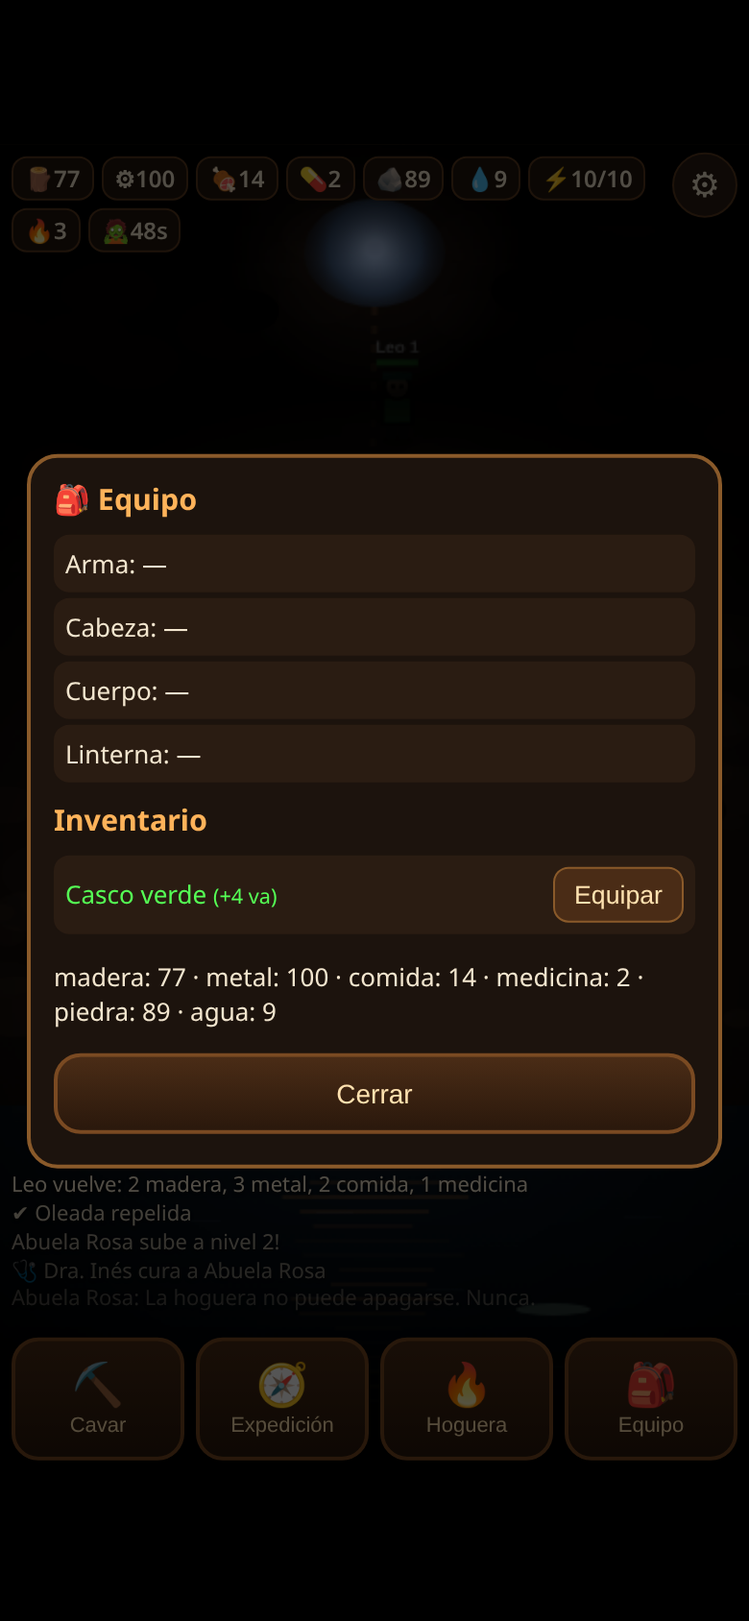
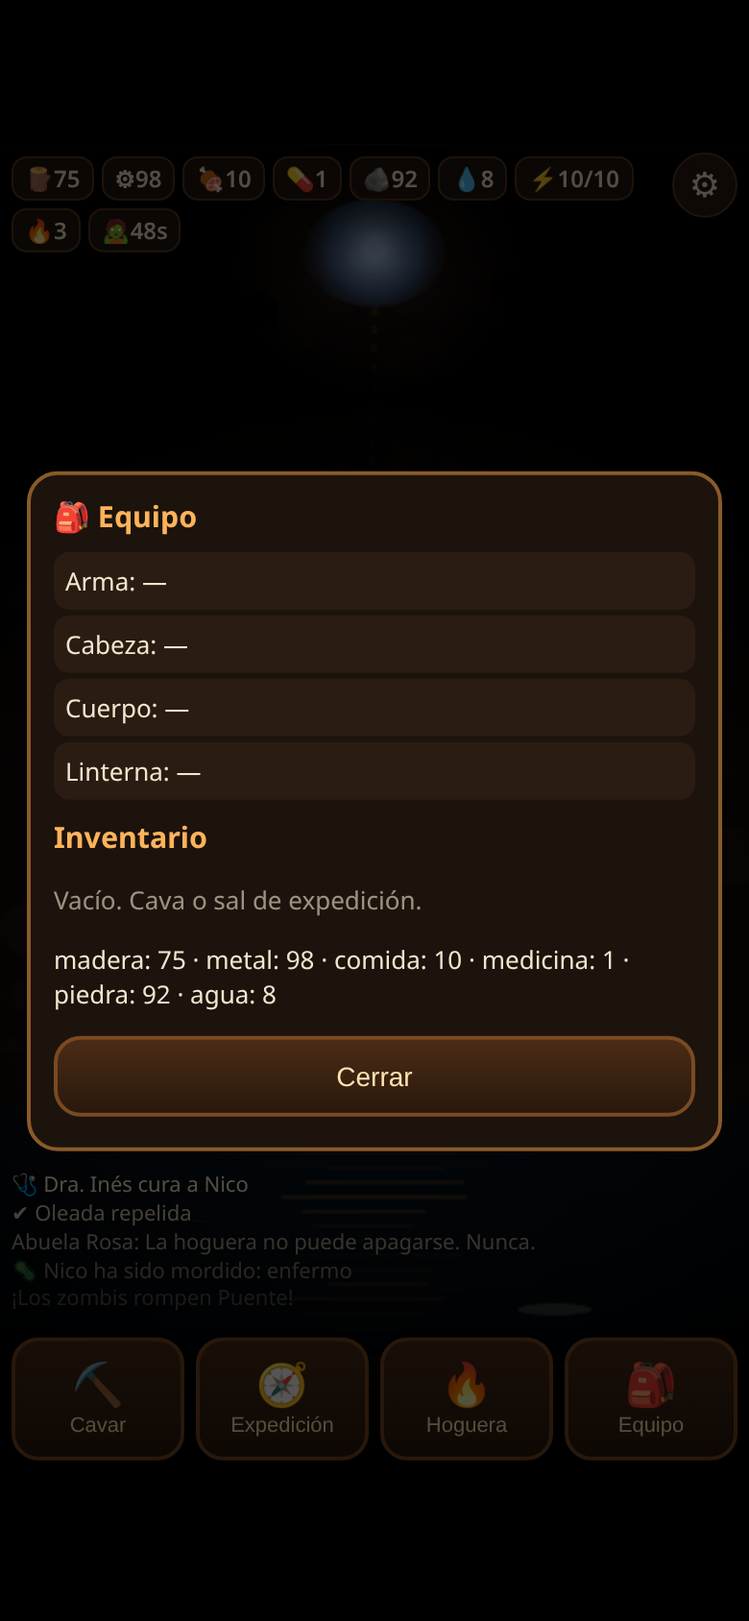
Character sheet paper doll, talents, stat points, duo expeditions, hoguera lvl 8, brighter lake, Warcraft-ish pixel art

diff --git a/game.js b/game.js
@@ -3,11 +3,17 @@
 const W=360,H=640,cv=document.getElementById('cv'),ctx=cv.getContext('2d');
 const $=id=>document.getElementById(id);
 const KEY='la_caverna_v1';
-const RAR=['Gris','Verde','Azul','Morado','Naranja'],RCOL=['#bbb','#5f5','#59f','#c6f','#fa3'];
+const RAR=['Gris','Verde','Azul','Morado','Naranja'],RCOL=['#b8b0a2','#4fd04a','#3f8cff','#b45cff','#ff9a1f'];
+const XSLOTS={manos:'Manos',pies:'Pies',mochila:'Mochila'},MAXF=8;
+const CLS={luchador:{n:'Luchador',i:'⚔',t:[[['fuerte','Golpe fuerte','+30% daño'],['piel','Piel dura','-30% daño recibido']],[['rapido','Ataque rápido','Golpeas 35% más rápido'],['grito','Grito de guerra','Aliados +2 fuerza']],[['furia','Furia','+60% daño'],['aguante','Aguante','+40 vida máx']]]},
+ explorador:{n:'Explorador',i:'🧭',t:[[['veloz','Pies ligeros','Expediciones 30% más cortas'],['ojo','Ojo avizor','+50% botín de expedición']],[['minero','Minero','Más alijos al cavar'],['incansable','Incansable','Energía +50% más rápida']],[['tesoro','Cazatesoros','Objetos de mayor rareza'],['sigilo','Sigilo','Nunca herido en expedición']]]},
+ medico:{n:'Médico',i:'⚕',t:[[['vendas','Vendas','Curas a aliados cercanos'],['botica','Botica','Medicina al cavar (25%)']],[['inmune','Inmune','Los mordiscos no te enferman'],['regen','Regeneración','Te curas 3x más rápido']],[['milagro','Milagro','50% curar sin gastar medicina'],['aura','Aura','Todos regeneran 2x']]]},
+ ingeniero:{n:'Ingeniero',i:'🔧',t:[[['ahorro','Ahorro','Hoguera 20% más barata'],['manitas','Manitas','Reparar es gratis']],[['refuerzo','Refuerzo','Las estructuras no se rompen'],['cantero','Cantero','+2 piedra al cavar']],[['trampas','Trampas','Zombis 30% más lentos'],['forja','Forja','Objetos nuevos +2 bonus']]]}};
+const NEXT=[null,null,'Taller: objetos de alijo mejores','Puente + expediciones de 2 personas','Atalaya: +10% daño en defensa','Muelle en el lago','Huerto: comida cada 30 s','Forja: objetos +1 bonus','Santuario: todos regeneran más'];
 const SLOTS={arma:'Arma',cabeza:'Cabeza',cuerpo:'Cuerpo',linterna:'Linterna'};
 const NAMES={arma:['Palo','Machete','Hacha','Lanza'],cabeza:['Gorro','Casco','Capucha'],cuerpo:['Chaqueta','Peto','Abrigo'],linterna:['Vela','Linterna','Farol']};
 const STAT={arma:'fu',cabeza:'va',cuerpo:'va',linterna:'ve'};
-const BUILD=[null,null,{n:'Taller',x:250,y:372},{n:'Puente',x:90,y:368},{n:'Atalaya',x:300,y:330},{n:'Muelle',x:180,y:458}];
+const BUILD=[null,null,{n:'Taller',x:250,y:372},{n:'Puente',x:90,y:368},{n:'Atalaya',x:300,y:330},{n:'Muelle',x:180,y:458},{n:'Huerto',x:70,y:420},{n:'Forja',x:295,y:415},{n:'Santuario',x:180,y:330}];
 const CAVES=[[60,140],[300,120],[40,250],[320,230],[120,80],[250,70],[30,330],[335,320],[200,190],[130,200]];
 const STORY=[
  ['Abuela Rosa','La hoguera no puede apagarse. Nunca.'],
@@ -21,7 +27,10 @@ function sv(name,col,role,fu,ve,va,x){return{name,col,role,lv:1,xp:0,hp:100,max:
 function fresh(){return{res:{madera:10,metal:2,comida:10,medicina:1,piedra:0,agua:5},en:10,fire:1,cave:1,
  surv:[sv('Tú','#3a8ee6','player',6,5,5,150),sv('Abuela Rosa','#c04a8a','fire',3,2,6,200),sv('Leo','#3fb34f','scout',5,8,5,120),sv('Dra. Inés','#e8e8f0','medic',3,4,5,240),sv('Nico','#f2c94c','kid',2,6,3,170)],
  inv:[],eq:{arma:null,cabeza:null,cuerpo:null,linterna:null},dog:null,wave:80,story:0,storyT:15,bld:{},log:[],tick:0}}
-function load(){try{const d=JSON.parse(localStorage.getItem(KEY));if(d&&d.surv)return d}catch(e){}return fresh()}
+function migrate(d){d.eq=Object.assign({arma:null,cabeza:null,cuerpo:null,linterna:null},d.eq||{});d.inv=d.inv||[];d.pts=d.pts||0;d.cls=d.cls||null;d.tal=d.tal||[];d.bld=d.bld||{};d.sel=[];d.tab=d.tab||'eq';for(const s of d.surv){s.mate=s.mate==null?null:s.mate}return d}
+function load(){try{const d=JSON.parse(localStorage.getItem(KEY));if(d&&d.surv)return migrate(d)}catch(e){}return migrate(fresh())}
+function T(k){return S.tal.indexOf(k)>=0}
+function tpts(){const p=P();return Math.max(0,p.lv-2)-S.tal.length}
 function save(){try{localStorage.setItem(KEY,JSON.stringify(S))}catch(e){}}
 S=load();S.surv.forEach(s=>{if(s.away)s.y=60});
 const P=()=>S.surv[0];
@@ -30,37 +39,44 @@ function renderLog(){$('log').innerHTML=S.log.map((m,i)=>'<div style="opacity:'+
 function toast(m){$('toast').textContent=m;$('toast').classList.add('on');toastT=3.5;log(m)}
 const R=(a,b)=>a+Math.random()*(b-a),RI=(a,b)=>Math.floor(R(a,b+1)),pick=a=>a[Math.floor(Math.random()*a.length)];
 function maxSurv(){return 4+S.fire}
-function lightR(){return 110+S.fire*55}
-function stat(s,k){let v=s[k]+s.lv;if(s.role==='player')for(const q in S.eq){const it=S.eq[q];if(it&&it.st===k)v+=it.b}return v}
-function addXP(s,n){s.xp+=n;while(s.xp>=s.lv*20){s.xp-=s.lv*20;s.lv++;s.max+=10;s.hp=s.max;s.fu++;s.ve++;s.va++;toast(s.name+' sube a nivel '+s.lv+'!')}}
+function lightR(){return 95+S.fire*45}
+function gearB(k){let v=0;for(const q in S.eq){const it=S.eq[q];if(it&&it.st===k)v+=it.b}return v}
+function stat(s,k){let v=s[k]+s.lv;if(s.role==='player')v+=gearB(k);else if(k==='fu'&&T('grito'))v+=2;return v}
+function dmgMul(s){return s.role==='player'?(1+(T('fuerte')?.3:0)+(T('furia')?.6:0)):1}
+function addXP(s,n){s.xp+=n;while(s.xp>=s.lv*20){s.xp-=s.lv*20;s.lv++;s.max+=10;s.hp=s.max;if(s.role==='player'){S.pts+=3;toast('¡Subes a nivel '+s.lv+'! +3 puntos de atributo'+(s.lv>=3?(S.cls?' y +1 talento':' · ¡Elige clase en Equipo!'):''))}else{const k=pick(['fu','ve','va']);s[k]+=2;s.fu++;toast(s.name+' sube a nivel '+s.lv+'!')}}}
 function mkItem(minR){const r=Math.min(4,Math.max(minR||0,(()=>{const x=Math.random();return x<.5?0:x<.78?1:x<.92?2:x<.985?3:4})()));const sl=pick(Object.keys(SLOTS));
- return{id:Date.now()+Math.random(),sl,n:pick(NAMES[sl])+' '+RAR[r].toLowerCase(),r,st:STAT[sl],b:1+r*2+RI(0,1)}}
+ return{id:Date.now()+Math.random(),sl,n:pick(NAMES[sl])+' '+RAR[r].toLowerCase(),r,st:STAT[sl],b:1+r*2+RI(0,1)+(T('forja')?2:0)+(S.bld[7]&&!S.bld[7].broken?1:0)}}
 function resStr(o){return Object.entries(o).filter(e=>e[1]>0).map(([k,v])=>v+' '+k).join(', ')}
 function has(c){return Object.entries(c).every(([k,v])=>(S.res[k]||0)>=v)}
 function pay(c){for(const k in c)S.res[k]-=c[k]}
 // ---------- actions
 function dig(){if(S.en<3){toast('Sin energía. Descansa un poco.');return}
- S.en-=3;S.cave++;const p=P();addXP(p,4);const x=Math.random();FX.push({t:'dust',x:70,y:300,l:1});
+ S.en-=3;S.cave++;const p=P();addXP(p,4);let x=Math.random();if(T('minero')&&x>.75&&x<.9)x=.4;if(T('cantero'))S.res.piedra+=2;if(T('botica')&&Math.random()<.25){S.res.medicina++;log('💊 Encuentras medicina')}FX.push({t:'dust',x:70,y:300,l:1});
  if(x<.35){const n=RI(2,5);S.res.piedra+=n;if(Math.random()<.4){S.res.metal++;log('⛏ Cueva nv '+S.cave+': '+n+' piedra y mineral (+1 metal)')}else log('⛏ Cueva nv '+S.cave+': '+n+' piedra')}
- else if(x<.55){const it=mkItem(1);S.inv.push(it);S.res.comida+=RI(1,3);toast('¡Alijo escondido! '+it.n)}
+ else if(x<.55){const it=mkItem(T('tesoro')?2:1);S.inv.push(it);S.res.comida+=RI(1,3);toast('¡Alijo escondido! '+it.n)}
  else if(x<.75){if(Math.random()<.65){S.res.agua+=RI(2,4);log('💧 Encuentras agua limpia')}else{S.res.agua+=2;if(Math.random()<.5){p.sick=true;toast('Agua mala... te pones enfermo')}else log('💧 Agua turbia. Mejor hervirla.')}}
  else if(x<.9){toast('¡Un zombi dormido en la cueva!');spawnZ(70,300,true)}
  else{S.res.madera+=RI(1,3);log('⛏ Raíces secas: madera')}
  save()}
-function expedition(i){const s=S.surv[i];if(!s||s.away||s.hp<s.max*.3)return;s.away=R(20,40);s.dur=s.away;s.tx=180;s.ty=90;s.out=false;log('🧭 '+s.name+' sale de expedición');closeM();save()}
-function returnExp(s){s.out=false;s.y=70;s.x=180;s.tx=R(110,260);s.ty=R(390,420);
- const g={madera:RI(2,6),metal:RI(0,3),comida:RI(1,5)};if(Math.random()<.4)g.medicina=1;
- for(const k in g)S.res[k]+=g[k];let m=s.name+' vuelve: '+resStr(g);addXP(s,10+S.fire*3);
- if(Math.random()<.35){const it=mkItem(Math.random()<.1?2:0);S.inv.push(it);m+=' + '+it.n}
- const risk=Math.random()*20;if(risk>stat(s,'ve')+3){s.hp=Math.max(10,s.hp-RI(15,40));m+=' (herido)'}
+function canGo(s){return s&&!s.away&&s.hp>=s.max*.3}
+function expedition(i,j){const a=S.surv[i],b=j!=null?S.surv[j]:null;if(!canGo(a)||(b&&!canGo(b)))return;let d=R(20,40)*(T('veloz')&&(a.role==='player'||(b&&b.role==='player'))?.7:1);
+ for(const s of b?[a,b]:[a]){s.away=d;s.dur=d;s.tx=180+(s===b?10:0);s.ty=90;s.out=false;s.mate=null;s.quiet=false}if(b){a.mate=j;b.quiet=true}
+ log('🧭 '+a.name+(b?' y '+b.name:'')+' salen de expedición');S.sel=[];closeM();save()}
+function returnExp(s){s.out=false;s.y=70;s.x=180;s.tx=R(110,260);s.ty=R(390,420);if(s.quiet){s.quiet=false;return}
+ const b=s.mate!=null?S.surv[s.mate]:null;s.mate=null;const team=b?[s,b]:[s];const pl=team.some(q=>q.role==='player');
+ const mul=(b?1.6:1)*(pl&&T('ojo')?1.5:1),R2=n=>Math.round(n*mul);
+ const g={madera:R2(RI(2,6)),metal:R2(RI(0,3)),comida:R2(RI(1,5))};if(Math.random()<.4*mul)g.medicina=1;
+ for(const k in g)S.res[k]+=g[k];let m=team.map(q=>q.name).join(' y ')+(b?' vuelven: ':' vuelve: ')+resStr(g);team.forEach(q=>addXP(q,10+S.fire*3));
+ if(Math.random()<(b?.55:.35)){const it=mkItem(Math.random()<(b?.25:.1)?2:0);S.inv.push(it);m+=' + '+it.n}
+ const ve=team.reduce((a,q)=>a+stat(q,'ve'),0);if(!(pl&&T('sigilo'))&&Math.random()*20>ve+3){const h=pick(team);h.hp=Math.max(10,h.hp-RI(15,40));m+=' ('+h.name+' herido)'}
  if(Math.random()<.12){s.sick=true;m+=' (enfermo)'}
  if(!S.dog&&Math.random()<.12){S.dog={hp:60,max:60,x:180,y:400,cd:0};m+=' ¡y un PERRO que te sigue!'}
  toast(m);save()}
-function upFire(){const c=fireCost();if(!has(c))return;pay(c);S.fire++;const b=BUILD[S.fire];if(b)S.bld[S.fire]={lv:1,broken:false};
+function upFire(){const c=fireCost();if(S.fire>=MAXF||!has(c))return;pay(c);S.fire++;const b=BUILD[S.fire];if(b)S.bld[S.fire]={lv:1,broken:false};
  toast('🔥 Gran Hoguera nivel '+S.fire+'!'+(b?' Nuevo: '+b.n:'')+' La luz revela más cavernas.');closeM();save()}
-function fireCost(){const l=S.fire;return{madera:8*l,piedra:4*l,metal:2*(l-1)}}
-function repair(k){const c={madera:4,piedra:2};if(!has(c))return;pay(c);S.bld[k].broken=false;log('🔧 '+BUILD[k].n+' reparado');openFire();save()}
-function heal(i){const s=S.surv[i];if(S.res.medicina<1)return;S.res.medicina--;s.sick=false;s.hp=Math.min(s.max,s.hp+30);log('💊 '+s.name+' curado');profile(i);save()}
+function fireCost(){const l=S.fire,m=T('ahorro')?.8:1;return{madera:Math.ceil(8*l*m),piedra:Math.ceil(4*l*m),metal:Math.ceil(2*(l-1)*m)}}
+function repair(k){const c=T('manitas')?{}:{madera:4,piedra:2};if(!has(c))return;pay(c);S.bld[k].broken=false;log('🔧 '+BUILD[k].n+' reparado');openFire();save()}
+function heal(i){const s=S.surv[i];if(S.res.medicina<1)return;if(!(T('milagro')&&Math.random()<.5))S.res.medicina--;s.sick=false;s.hp=Math.min(s.max,s.hp+30);log('💊 '+s.name+' curado');profile(i);save()}
 function equip(id){const k=S.inv.findIndex(x=>x.id===id);if(k<0)return;const it=S.inv[k];S.inv.splice(k,1);if(S.eq[it.sl])S.inv.push(S.eq[it.sl]);S.eq[it.sl]=it;openEquip();save()}
 function unequip(sl){if(!S.eq[sl])return;S.inv.push(S.eq[sl]);S.eq[sl]=null;openEquip();save()}
 // ---------- zombies
@@ -71,20 +87,40 @@ function wave(){const n=2+S.fire+Math.floor(S.cave/8);const cs=revealed().length
 // ---------- UI modals
 const M=$('modal'),C=$('card');function openM(h){C.innerHTML=h;M.classList.remove('hide')}function closeM(){M.classList.add('hide')}
 M.addEventListener('click',e=>{if(e.target===M)closeM();const b=e.target.closest('[data-f]');if(!b||b.disabled)return;const f=b.dataset.f,v=b.dataset.v;
- ({close:closeM,exp:()=>expedition(+v),fire:upFire,rep:()=>repair(v),heal:()=>heal(+v),eq:()=>equip(+v),uneq:()=>unequip(v),reset:()=>{if(confirm('¿Borrar partida?')){localStorage.removeItem(KEY);location.reload()}},profile:()=>profile(+v)})[f]()});
+ ({close:closeM,exp:()=>expedition(+v),fire:upFire,rep:()=>repair(v),heal:()=>heal(+v),eq:()=>equip(+v),uneq:()=>unequip(v),sel:()=>selExp(+v),go:()=>{const a=S.sel;if(a.length)expedition(a[0],a[1])},slot:()=>detail('s',v),inv:()=>detail('i',+v),stp:()=>{if(S.pts>0){P()[v]++;S.pts--;save();openEquip()}},tab:()=>{S.tab=v;openEquip()},cls:()=>{if(P().lv>=3&&!S.cls){S.cls=v;save();openEquip()}},tal:()=>learn(v),reset:()=>{if(confirm('¿Borrar partida?')){localStorage.removeItem(KEY);location.reload()}},profile:()=>profile(+v)})[f]()});
 const X='<button class="btn" data-f="close">Cerrar</button>';
-function openExp(){let h='<h3>🧭 Expedición</h3><p>Elige quién sale (20-40 s). Riesgo de heridas.</p>';
- S.surv.forEach((s,i)=>{const ok=!s.away&&s.hp>=s.max*.3;h+='<button class="btn" data-f="exp" data-v="'+i+'" '+(ok?'':'disabled')+'>'+s.name+' · nv '+s.lv+' · ♥'+Math.round(s.hp)+(s.away?' (fuera '+Math.ceil(s.away)+'s)':'')+'</button>'});openM(h+X)}
-function openFire(){const c=fireCost();let h='<h3>🔥 Gran Hoguera · nivel '+S.fire+'</h3><p>Mejorar revela más pared, construye estructuras y sube supervivientes máx ('+maxSurv()+').</p><p>Coste: '+resStr(c)+'</p><button class="btn" data-f="fire" '+(has(c)?'':'disabled')+'>Mejorar a nivel '+(S.fire+1)+'</button>';
- for(const k in S.bld){if(S.bld[k].broken)h+='<button class="btn" data-f="rep" data-v="'+k+'" '+(has({madera:4,piedra:2})?'':'disabled')+'>Reparar '+BUILD[k].n+' (4 madera, 2 piedra)</button>'}
+function openExp(){const duo=S.fire>=3;let h='<h3>🧭 Expedición</h3><p>'+(duo?'Elige 1 o 2 supervivientes. En pareja: +60% botín, menos riesgo y ambos ganan XP (pero hay menos defensores).':'Elige quién sale (20-40 s). Riesgo de heridas.')+'</p>'+(duo?'':'<p class="lock">🔒 Expediciones de 2 personas: Hoguera nivel 3</p>');
+ S.surv.forEach((s,i)=>{const ok=canGo(s),on=S.sel.indexOf(i)>=0;h+='<button class="btn'+(on?' on':'')+'" data-f="'+(duo?'sel':'exp')+'" data-v="'+i+'" '+(ok?'':'disabled')+'>'+(on?'✔ ':'')+s.name+' · nv '+s.lv+' · ♥'+Math.round(s.hp)+' · Vel '+stat(s,'ve')+(s.away?' (fuera '+Math.ceil(s.away)+'s)':'')+'</button>'});
+ if(duo)h+='<button class="btn gold" data-f="go" '+(S.sel.length?'':'disabled')+'>Enviar '+(S.sel.length===2?'pareja':'')+'</button>';openM(h+X)}
+function selExp(i){const k=S.sel.indexOf(i);if(k>=0)S.sel.splice(k,1);else{S.sel.push(i);if(S.sel.length>2)S.sel.shift()}openExp()}
+function openFire(){const c=fireCost(),mx=S.fire>=MAXF;let h='<h3>🔥 Gran Hoguera · nivel '+S.fire+'/'+MAXF+'</h3><div class="lvbar">'+Array.from({length:MAXF},(_,i)=>'<i class="'+(i<S.fire?'on':'')+'">'+(i+1)+'</i>').join('')+'</div><p>Luz: '+lightR()+' · Grutas reveladas: '+revealed().length+'/'+CAVES.length+' · Supervivientes máx '+maxSurv()+'</p>';
+ if(mx)h+='<p class="gold">¡Hoguera al máximo!</p>';else h+='<div class="next"><b>Siguiente nivel '+(S.fire+1)+' desbloquea:</b><br>• '+(NEXT[S.fire+1]||'Más luz')+'<br>• Más pared revelada (luz '+(lightR()+55)+')<br>• Coste: '+resStr(c)+'</div><button class="btn gold" data-f="fire" '+(has(c)?'':'disabled')+'>Mejorar a nivel '+(S.fire+1)+'</button>';
+ h+='<p style="opacity:.75">'+NEXT.map((n,i)=>n&&i<=S.fire?'✔ '+n:'').filter(Boolean).join('<br>')+'</p>';
+ for(const k in S.bld){if(S.bld[k].broken)h+='<button class="btn" data-f="rep" data-v="'+k+'" '+(T('manitas')||has({madera:4,piedra:2})?'':'disabled')+'>Reparar '+BUILD[k].n+(T('manitas')?' (gratis)':' (4 madera, 2 piedra)')+'</button>'}
  h+='<p style="opacity:.7">Próxima oleada en '+Math.ceil(S.wave)+' s</p>';openM(h+X)}
-function gearHTML(){return Object.keys(SLOTS).map(sl=>{const it=S.eq[sl];return'<div class="it"><span>'+SLOTS[sl]+': '+(it?'<b class="r'+it.r+'">'+it.n+'</b> +'+it.b+' '+it.st:'—')+'</span>'+(it?'<button data-f="uneq" data-v="'+sl+'">Quitar</button>':'')+'</div>'}).join('')}
-function openEquip(){let h='<h3>🎒 Equipo</h3>'+gearHTML()+'<h3 style="margin-top:10px">Inventario</h3>';
- if(!S.inv.length)h+='<p style="opacity:.6">Vacío. Cava o sal de expedición.</p>';
- S.inv.forEach(it=>{h+='<div class="it"><span class="r'+it.r+'">'+it.n+' <small>(+'+it.b+' '+it.st+')</small></span><button data-f="eq" data-v="'+it.id+'">Equipar</button></div>'});
- h+='<p>'+Object.entries(S.res).map(([k,v])=>k+': '+v).join(' · ')+'</p>';openM(h+X)}
+const SL_L=['cabeza','cuerpo','manos'],SL_R=['arma','linterna','pies','mochila'];
+function slotHTML(sl){const it=S.eq[sl],ex=!SLOTS[sl];return'<div class="slot'+(it?' rb'+it.r:'')+(ex?' empty':'')+'" data-f="slot" data-v="'+sl+'"><canvas class="ic" width="20" height="20" data-ic="'+(it?'e:'+sl:'')+'"></canvas><small>'+(SLOTS[sl]||XSLOTS[sl])+'</small></div>'}
+const SN={fu:'Fuerza',ve:'Velocidad',va:'Valor'};
+function sheetHead(){const p=P(),c=S.cls&&CLS[S.cls];return'<div class="nm"><b>'+p.name+'</b> · Nivel '+p.lv+' · '+(c?c.i+' '+c.n:'Superviviente')+'</div><div class="xb"><i style="width:'+Math.min(100,p.xp/(p.lv*20)*100)+'%"></i><span>XP '+p.xp+'/'+p.lv*20+'</span></div><div class="xb hp"><i style="width:'+p.hp/p.max*100+'%"></i><span>♥ '+Math.round(p.hp)+'/'+p.max+'</span></div>'}
+function gearHTML(){const p=P();let h='<div class="doll"><div class="col">'+SL_L.map(slotHTML).join('')+'</div><div class="mid"><canvas id="doll" width="72" height="56"></canvas></div><div class="col">'+SL_R.map(slotHTML).join('')+'</div></div>';
+ h+='<div class="stats">'+(S.pts?'<div class="pts">✨ '+S.pts+' puntos para repartir</div>':'')+Object.keys(SN).map(k=>{const g=gearB(k);return'<div class="st"><span>'+SN[k]+'</span><b>'+stat(p,k)+'</b>'+(g?'<em>(+'+g+')</em>':'<em></em>')+(S.pts?'<button data-f="stp" data-v="'+k+'">+</button>':'')+'</div>'}).join('')+(S.dog?'<div class="st"><span>🐕 Perro</span><b>♥'+Math.round(S.dog.hp)+'</b><em></em></div>':'')+'</div><div id="det" class="det">Toca una casilla u objeto.</div>';return h}
+function talentHTML(){const p=P();if(p.lv<3)return'<p class="lock">🔒 Al nivel 3 eliges clase y desbloqueas talentos (1 punto por nivel).<br>Te faltan '+(3-p.lv)+' nivel(es).</p>';
+ if(!S.cls)return'<p>Elige tu clase (definitiva):</p>'+Object.keys(CLS).map(k=>{const c=CLS[k];return'<button class="btn" data-f="cls" data-v="'+k+'">'+c.i+' '+c.n+'<small>'+c.t[0].map(x=>x[1]).join(' · ')+'</small></button>'}).join('');
+ const c=CLS[S.cls];let h='<p class="pts">'+c.i+' '+c.n+' · Puntos de talento: '+tpts()+'</p><div class="tree">';
+ c.t.forEach((tier,ti)=>{const open=ti===0||c.t[ti-1].some(x=>T(x[0]));h+='<div class="tier">'+tier.map(x=>{const on=T(x[0]),can=!on&&open&&tpts()>0;return'<div class="node'+(on?' on':can?' can':'')+'" data-f="tal" data-v="'+x[0]+'"><b>'+x[1]+'</b><small>'+x[2]+'</small></div>'}).join('')+'</div>'+(ti<2?'<div class="link'+(tier.some(x=>T(x[0]))?' on':'')+'"></div>':'')});return h+'</div>'}
+function learn(k){const c=CLS[S.cls];if(!c||tpts()<1||T(k))return;const ti=c.t.findIndex(t=>t.some(x=>x[0]===k));if(ti>0&&!c.t[ti-1].some(x=>T(x[0])))return;S.tal.push(k);if(k==='aguante')P().max+=40;toast('Talento aprendido: '+c.t[ti].find(x=>x[0]===k)[1]);save();openEquip()}
+function itemInfo(it){return'<b class="r'+it.r+'">'+it.n+'</b><br>'+RAR[it.r]+' · '+(SLOTS[it.sl])+' · +'+it.b+' '+SN[it.st]}
+function detail(t,v){const d=$('det');if(!d)return;if(t==='s'){const it=S.eq[v];d.innerHTML=it?itemInfo(it)+' <button data-f="uneq" data-v="'+v+'">Quitar</button>':(SLOTS[v]||XSLOTS[v])+': '+(SLOTS[v]?'vacío':'próximamente')}
+ else{const it=S.inv.find(x=>x.id===v);if(!it)return;const cur=S.eq[it.sl];d.innerHTML=itemInfo(it)+(cur?'<br><small>Equipado: +'+cur.b+' ('+(it.b-cur.b>=0?'+':'')+(it.b-cur.b)+')</small>':'')+' <button data-f="eq" data-v="'+it.id+'">Equipar</button>'}}
+function openEquip(){const p=P(),tab=S.tab==='tal'?'tal':'eq',tb=tpts()>0&&S.cls||(p.lv>=3&&!S.cls);
+ let h='<div class="sheet">'+sheetHead()+'<div class="tabs"><button data-f="tab" data-v="eq" class="'+(tab==='eq'?'on':'')+'">Equipo</button><button data-f="tab" data-v="tal" class="'+(tab==='tal'?'on':'')+'">Talentos'+(tb?' ●':'')+'</button></div>';
+ if(tab==='eq'){h+=gearHTML()+'<h3>Inventario</h3><div class="grid">';
+  if(!S.inv.length)h+='<p style="opacity:.6">Vacío. Cava o sal de expedición.</p>';
+  S.inv.forEach(it=>{h+='<div class="slot rb'+it.r+'" data-f="inv" data-v="'+it.id+'"><canvas class="ic" width="20" height="20" data-ic="i:'+it.id+'"></canvas></div>'});
+  h+='</div><p class="res">'+Object.entries(S.res).map(([k,v])=>k+': '+v).join(' · ')+'</p>'}else h+=talentHTML();
+ openM(h+X+'</div>');C.querySelectorAll('canvas.ic').forEach(cv=>{const a=cv.dataset.ic;if(!a)return;const it=a[0]==='e'?S.eq[a.slice(2)]:S.inv.find(x=>x.id===+a.slice(2));drawIcon(cv,it)});drawDoll()}
 function profile(i){const s=S.surv[i];let h='<h3 style="color:'+s.col+'">'+s.name+'</h3>Nivel '+s.lv+' · XP '+s.xp+'/'+s.lv*20+'<br>♥ '+Math.round(s.hp)+'/'+s.max+' · Hambre '+Math.round(s.hunger)+'%<br>Fuerza '+stat(s,'fu')+' · Velocidad '+stat(s,'ve')+' · Valor '+stat(s,'va')+'<br>Estado: '+(s.sick?'<b style="color:#8f8">ENFERMO</b>':'sano')+(s.away?' · de expedición':'');
- if(s.role==='player')h+='<h3 style="margin-top:8px">Equipo</h3>'+gearHTML()+(S.dog?'<p>🐕 Perro: ♥'+Math.round(S.dog.hp)+'</p>':'');
+ if(s.role==='player'&&!s.sick&&s.hp>=s.max){openEquip();return}
  if(s.sick||s.hp<s.max)h+='<button class="btn" data-f="heal" data-v="'+i+'" '+(S.res.medicina>0?'':'disabled')+'>Usar medicina ('+S.res.medicina+')</button>';openM(h+X)}
 function settings(){openM('<h3>⚙ Ajustes</h3><p>La Caverna · prototipo v0.1<br>La partida se guarda sola en este dispositivo.</p><button class="btn" data-f="reset">Reiniciar partida</button>'+X)}
 $('gear').onclick=settings;
@@ -94,24 +130,25 @@ cv.addEventListener('click',e=>{const r=cv.getBoundingClientRect(),x=(e.clientX-
 // ---------- update
 function near(a,list){let b=null,bd=1e9;for(const o of list){const d=Math.hypot(o.x-a.x,o.y-a.y);if(d<bd){bd=d;b=o}}return[b,bd]}
 function update(dt){const t=S.tick+=dt;
- S.en=Math.min(10,S.en+dt/3);S.wave-=dt;if(S.wave<=0){wave();S.wave=Math.max(45,85-S.fire*6)}
+ S.en=Math.min(10,S.en+dt/3*(T('incansable')?1.5:1));if(S.bld[6]&&!S.bld[6].broken&&t%30<dt){S.res.comida++}S.wave-=dt;if(S.wave<=0){wave();S.wave=Math.max(45,85-S.fire*6)}
  S.storyT-=dt;if(S.storyT<=0&&S.story<STORY.length){const[a,b]=STORY[S.story++];toast(a+': '+b);if(S.story===STORY.length)FX.push({t:'splash',x:200,y:540,l:2});S.storyT=40}
  const home=S.surv.filter(s=>!s.out&&s.hp>0);
  for(const s of S.surv){
   if(s.away>0){s.away-=dt;if(!s.out){mv(s,s.tx,s.ty,40,dt);if(Math.hypot(s.x-s.tx,s.y-s.ty)<3){s.ty=60;s.tx=180;if(s.y<64)s.out=true}}if(s.away<=0){s.away=0;returnExp(s)}continue}
   s.hunger+=dt*.5;if(s.hunger>=100){if(S.res.comida>0){S.res.comida--;s.hunger=0}else{s.hunger=100;s.hp-=dt*.5}}
-  if(s.sick)s.hp-=dt*.4;if(!s.sick&&s.hunger<100)s.hp=Math.min(s.max,s.hp+dt*.3);
+  if(s.sick)s.hp-=dt*.4;if(!s.sick&&s.hunger<100)s.hp=Math.min(s.max+(s.role==='player'&&T('aguante')?40:0),s.hp+dt*.3*(s.role==='player'&&T('regen')?3:1)*(T('aura')?2:1)*(S.bld[8]?1.5:1));
+  if(s.role==='player'&&T('vendas')&&t%5<dt)for(const o of S.surv)if(o!==s&&!o.away&&Math.hypot(o.x-s.x,o.y-s.y)<60)o.hp=Math.min(o.max,o.hp+4);
   if(s.hp<=0){s.hp=1;s.sick=false;s.hunger=50;log('💀 '+s.name+' cae inconsciente y se recupera junto al fuego');s.x=180;s.y=410}
   const[z,d]=near(s,Z);s.cd-=dt;s.hit=Math.max(0,s.hit-dt);
-  if(z&&d<160){if(d>14)mv(s,z.x,z.y,30+stat(s,'ve')*2,dt);else if(s.cd<=0){z.hp-=4+stat(s,'fu')*1.5;z.hit=.15;s.cd=1;FX.push({t:'hit',x:z.x,y:z.y-8,l:.3});if(z.hp<=0)addXP(s,6)}}
+  if(z&&d<160){if(d>14)mv(s,z.x,z.y,30+stat(s,'ve')*2,dt);else if(s.cd<=0){z.hp-=(4+stat(s,'fu')*1.5)*dmgMul(s)*(S.bld[4]&&!S.bld[4].broken?1.1:1);z.hit=.15;s.cd=s.role==='player'&&T('rapido')?.65:1;FX.push({t:'hit',x:z.x,y:z.y-8,l:.3});if(z.hp<=0)addXP(s,6)}}
   else{if(Math.hypot(s.x-s.tx,s.y-s.ty)<2&&Math.random()<dt*.4){s.tx=R(95,265);s.ty=R(388,425)}mv(s,s.tx,s.ty,14,dt)}
  }
  if(S.dog){const d=S.dog,p=P();d.cd-=dt;const[z,dz]=near(d,Z);if(z&&dz<150){if(dz>12)mv(d,z.x,z.y,60,dt);else if(d.cd<=0){z.hp-=8;z.hit=.15;d.cd=.8}}else mv(d,p.x+14,p.y+4,p.out?0:40,dt);d.hp=Math.min(d.max,d.hp+dt)}
  for(const z of Z){z.cd-=dt;z.hit=Math.max(0,z.hit-dt);
   const tgts=home.slice();if(S.dog)tgts.push(S.dog);for(const k in S.bld)if(!S.bld[k].broken)tgts.push({x:BUILD[k].x,y:BUILD[k].y,bk:k});
-  const[tg,d]=near(z,tgts);if(!tg)continue;if(d>12)mv(z,tg.x,tg.y,z.sp,dt);else if(z.cd<=0){z.cd=1.3;
-   if(tg.bk){if(Math.random()<.25){S.bld[tg.bk].broken=true;toast('¡Los zombis rompen '+BUILD[tg.bk].n+'!')}}
-   else{tg.hp-=z.atk;tg.hit=.2;if(tg.name&&Math.random()<.12&&!tg.sick){tg.sick=true;log('🦠 '+tg.name+' ha sido mordido: enfermo')}}}}
+  const[tg,d]=near(z,tgts);if(!tg)continue;if(d>12)mv(z,tg.x,tg.y,z.sp*(T('trampas')?.7:1),dt);else if(z.cd<=0){z.cd=1.3;
+   if(tg.bk){if(!T('refuerzo')&&Math.random()<.25){S.bld[tg.bk].broken=true;toast('¡Los zombis rompen '+BUILD[tg.bk].n+'!')}}
+   else{tg.hp-=z.atk*(tg.role==='player'&&T('piel')?.7:1);tg.hit=.2;if(tg.name&&Math.random()<.12&&!tg.sick&&!(tg.role==='player'&&T('inmune'))){tg.sick=true;log('🦠 '+tg.name+' ha sido mordido: enfermo')}}}}
  const dead=Z.filter(z=>z.hp<=0);if(dead.length){Z=Z.filter(z=>z.hp>0);S.res.comida+=0;if(!Z.length)log('✔ Oleada repelida')}
  // medic & fire keeper
  const med=S.surv[3];if(med&&!med.away&&t%20<dt){const sk=S.surv.find(s=>s.sick&&!s.away&&s!==med);if(sk){sk.sick=false;log('🩺 Dra. Inés cura a '+sk.name)}}
@@ -134,37 +171,81 @@ function bg(){const g=ctx.createLinearGradient(0,0,0,H);g.addColorStop(0,'#2a1d1
  // ledge
  ctx.fillStyle='#4a3424';ctx.beginPath();ctx.moveTo(60,380);ctx.quadraticCurveTo(180,360,300,380);ctx.lineTo(320,440);ctx.quadraticCurveTo(180,460,40,440);ctx.closePath();ctx.fill();
  ctx.fillStyle='#5e4430';ctx.fillRect(60,376,240,6)}
-function lake(t){const g=ctx.createLinearGradient(0,465,0,H);g.addColorStop(0,'#0b1620');g.addColorStop(1,'#020509');ctx.fillStyle=g;ctx.fillRect(0,462,W,H-462);
- for(let i=0;i<26;i++){const y=470+i*7,a=.25*(1-i/26)*(.6+.4*Math.sin(t*3+i));ctx.fillStyle='rgba(255,150,60,'+a+')';const w=40-i+Math.sin(t*2+i*1.7)*10;ctx.fillRect(180-w+Math.sin(t*1.5+i)*6,y,w*2,2)}
- for(let i=0;i<12;i++){ctx.fillStyle='rgba(120,160,200,.08)';ctx.fillRect((i*53+t*12)%W,480+(i*37)%150,18,1)}}
-function fire(t){const l=S.fire,s=1+l*.15;const g=ctx.createRadialGradient(180,395,4,180,395,90*s);g.addColorStop(0,'rgba(255,170,60,.55)');g.addColorStop(1,'rgba(255,100,20,0)');ctx.fillStyle=g;ctx.fillRect(0,250,W,250);
- ctx.fillStyle='#3a2a1e';for(let i=0;i<7;i++){ctx.beginPath();ctx.arc(180+Math.cos(i)*16*s,404+Math.sin(i)*3,4,0,7);ctx.fill()}
- for(let i=0;i<9;i++){const fl=Math.sin(t*9+i*2)*.5+.5;ctx.fillStyle=['#ff4a14','#ff8a1e','#ffd04a'][i%3];ctx.beginPath();const x=180+(i-4)*3.5*s,h=(16+fl*14)*s*(1-Math.abs(i-4)/6);ctx.moveTo(x-6*s,404);ctx.quadraticCurveTo(x,404-h*1.6,x+6*s,404);ctx.fill()}}
+function lake(t){const l=S.fire,g=ctx.createLinearGradient(0,462,0,H);g.addColorStop(0,'#1f6f86');g.addColorStop(.35,'#145368');g.addColorStop(1,'#08303f');ctx.fillStyle=g;ctx.fillRect(0,462,W,H-462);
+ ctx.fillStyle='#3a6a70';ctx.fillRect(0,460,W,3);
+ for(let i=0;i<34;i++){const y=470+(i*29)%170,x=(i*71+t*(8+i%5*3))%(W+40)-20,a=.18+.12*Math.sin(t*2+i);ctx.fillStyle='rgba(170,230,240,'+a+')';ctx.fillRect(Math.round(x),y,10+i%4*6,1)}
+ const rows=10+l*6,wb=26+l*9,al=.35+l*.06;
+ for(let i=0;i<rows;i++){const y=468+i*(170/rows)*Math.min(1,rows/34)*1.4,k=1-i/rows,a=al*k*(.6+.4*Math.sin(t*3+i));if(y>H)break;ctx.fillStyle='rgba(255,'+(150+Math.round(60*k))+',70,'+Math.min(.9,a)+')';const w=wb*(.5+k*.5)+Math.sin(t*2+i*1.7)*8;ctx.fillRect(Math.round(180-w+Math.sin(t*1.5+i)*5),Math.round(y),Math.round(w*2),2)}
+ const rg=ctx.createRadialGradient(180,470,4,180,470,60+l*28);rg.addColorStop(0,'rgba(255,170,80,'+(.22+l*.03)+')');rg.addColorStop(1,'rgba(255,140,60,0)');ctx.fillStyle=rg;ctx.fillRect(0,462,W,H-462)}
+function fire(t){const l=S.fire,s=.75+l*.3;const g=ctx.createRadialGradient(180,395,4,180,395,60+l*32);g.addColorStop(0,'rgba(255,170,60,'+Math.min(.85,.45+l*.05)+')');g.addColorStop(1,'rgba(255,100,20,0)');ctx.fillStyle=g;ctx.fillRect(0,200,W,280);
+ ctx.fillStyle='#3a2a1e';const ring=5+l;for(let i=0;i<ring;i++){const a=i/ring*Math.PI*2;ctx.beginPath();ctx.arc(180+Math.cos(a)*(9+5*s),404+Math.sin(a)*3,3+s,0,7);ctx.fill()}
+ const fn=7+l*2;for(let i=0;i<fn;i++){const c=(fn-1)/2,fl=Math.sin(t*9+i*2)*.5+.5;ctx.fillStyle=['#ff4a14','#ff8a1e','#ffd04a'][i%3];ctx.beginPath();const x=180+(i-c)*3*s,h=(14+fl*12)*s*(1-Math.abs(i-c)/(c+2));ctx.moveTo(x-5*s,404);ctx.quadraticCurveTo(x,404-h*1.6,x+5*s,404);ctx.fill()}
+ const sp=3+l*5;for(let i=0;i<sp;i++){const p=((t*.6+i*.137)%1),x=180+Math.sin(i*12.9+t*2)*(6+p*14)*s,y=400-p*(30+l*12)*s;ctx.fillStyle='rgba(255,'+(200-Math.round(p*120))+',60,'+(1-p)+')';ctx.fillRect(Math.round(x),Math.round(y),2,2)}}
 function buildings(){for(const k in S.bld){const b=BUILD[k],br=S.bld[k].broken;ctx.save();ctx.translate(b.x,b.y);ctx.globalAlpha=br?.5:1;ctx.fillStyle='#7a5232';ctx.strokeStyle='#2a1a0e';ctx.lineWidth=2;
  if(b.n==='Taller'){ctx.fillRect(-14,-16,28,16);ctx.beginPath();ctx.moveTo(-17,-16);ctx.lineTo(0,-28);ctx.lineTo(17,-16);ctx.fillStyle='#a33';ctx.fill()}
  else if(b.n==='Puente'){ctx.beginPath();ctx.moveTo(-40,0);ctx.quadraticCurveTo(-20,10,0,0);ctx.stroke();for(let i=-38;i<0;i+=6)ctx.fillRect(i,1,4,3)}
  else if(b.n==='Atalaya'){ctx.fillRect(-3,-40,6,40);ctx.fillRect(-12,-48,24,10)}
+ else if(b.n==='Huerto'){ctx.fillStyle='#4a3020';ctx.fillRect(-18,-6,36,8);ctx.fillStyle='#5fbf3a';for(let i=-15;i<16;i+=6)ctx.fillRect(i,-11,3,6)}
+ else if(b.n==='Forja'){ctx.fillStyle='#5a5a60';ctx.fillRect(-12,-14,24,14);ctx.fillStyle='#ff8a2a';ctx.fillRect(-5,-9,10,6);ctx.fillStyle='#333';ctx.fillRect(6,-26,5,12)}
+ else if(b.n==='Santuario'){ctx.fillStyle='#8a8070';ctx.fillRect(-16,-6,32,6);ctx.fillRect(-13,-26,4,20);ctx.fillRect(9,-26,4,20);ctx.fillRect(-16,-30,32,5);ctx.fillStyle='#ffd86a';ctx.fillRect(-2,-20,4,4)}
  else {ctx.fillRect(-22,0,44,5);ctx.fillRect(-20,5,3,10);ctx.fillRect(17,5,3,10)}
  ctx.globalAlpha=1;ctx.fillStyle=br?'#f55':'#ffd9a0';ctx.font='8px sans-serif';ctx.textAlign='center';ctx.fillText(b.n+(br?' (roto)':''),0,br?-30:12);ctx.restore()}}
-function person(s,t){if(s.out)return;const bob=Math.sin(t*6+s.x)*1.2,x=s.x,y=s.y+bob;ctx.fillStyle='rgba(0,0,0,.4)';ctx.beginPath();ctx.ellipse(s.x,s.y+2,7,2.5,0,0,7);ctx.fill();
- const kid=s.role==='kid'?.75:1;ctx.save();ctx.translate(x,y);ctx.scale(kid,kid);
- ctx.fillStyle=s.hit>0?'#fff':'#222';ctx.fillRect(-5,-8,4,8);ctx.fillRect(1,-8,4,8);
- ctx.fillStyle=s.hit>0?'#fff':s.col;ctx.fillRect(-7,-20,14,13);ctx.strokeStyle='#000';ctx.lineWidth=1.5;ctx.strokeRect(-7,-20,14,13);
- ctx.fillStyle=s.sick?'#9c9':'#f0c090';ctx.beginPath();ctx.arc(0,-25,6,0,7);ctx.fill();ctx.stroke();
- ctx.fillStyle='#000';ctx.fillRect(-3,-26,2,2);ctx.fillRect(1,-26,2,2);
- if(s.role==='fire'){ctx.fillStyle='#ddd';ctx.fillRect(-6,-32,12,4)}if(s.role==='medic'){ctx.fillStyle='#e22';ctx.fillRect(-1.5,-18,3,9);ctx.fillRect(-4.5,-15,9,3)}
- if(s.role==='player'){if(S.eq.arma){ctx.fillStyle=RCOL[S.eq.arma.r];ctx.fillRect(7,-22,3,14)}if(S.eq.cabeza){ctx.fillStyle=RCOL[S.eq.cabeza.r];ctx.fillRect(-7,-33,14,5)}if(S.eq.linterna){ctx.fillStyle='#ffe28a';ctx.beginPath();ctx.arc(-9,-12,2.5,0,7);ctx.fill()}}
- if(s.role==='scout'){ctx.fillStyle='#265';ctx.fillRect(-7,-32,14,4)}
- ctx.restore();bar(x,y-38,s.hp/s.max,s.sick?'#8c4':'#4c4');ctx.fillStyle='#fff';ctx.font='bold 8px sans-serif';ctx.textAlign='center';ctx.fillText(s.name.split(' ').pop()+' '+s.lv,x,y-41)}
+function person(s,t){if(s.out)return;const bob=Math.round(Math.sin(t*6+s.x)*1.2),x=Math.round(s.x),y=Math.round(s.y)+bob;ctx.fillStyle='rgba(0,0,0,.4)';ctx.beginPath();ctx.ellipse(s.x,s.y+2,8,2.5,0,0,7);ctx.fill();
+ const kid=s.role==='kid'?.75:1;ctx.save();ctx.translate(x,y);ctx.scale(kid,kid);hero(ctx,s,s.role==='player'?S.eq:null,t);ctx.restore();
+ bar(x,y-42,s.hp/s.max,s.sick?'#8c4':'#4c4');ctx.fillStyle='#fff';ctx.font='bold 8px sans-serif';ctx.textAlign='center';ctx.fillText(s.name.split(' ').pop()+' '+s.lv,x,y-45)}
+// ---------- pixel art (Warcraft-ish: chunky, bold outlines, warm palette)
+const OL='#1a0e06';
+function kind(it){return it?it.n.split(' ')[0]:''}
+function shade(h,f){const n=parseInt(h.slice(1),16);let r=n>>16,g=n>>8&255,b=n&255;const c=v=>Math.max(0,Math.min(255,Math.round(f>1?v+(255-v)*(f-1):v*f)));return'#'+((1<<24)+(c(r)<<16)+(c(g)<<8)+c(b)).toString(16).slice(1)}
+function metal(r){return r?RCOL[r]:'#c9c4bb'}
+function paint(c,L,flash){for(const q of L){c.fillStyle=OL;c.fillRect(q[0]-1,q[1]-1,q[2]+2,q[3]+2)}for(const q of L){c.fillStyle=flash?'#fff':q[4];c.fillRect(q[0],q[1],q[2],q[3])}}
+function weaponRects(it,x,y){const k=kind(it),m=metal(it.r),w='#8a5a2c';
+ if(k==='Palo')return[[x,y-16,2,18,w],[x,y-17,2,2,m]];
+ if(k==='Machete')return[[x,y-2,2,4,'#5a3416'],[x-1,y-3,4,1,'#d8a040'],[x,y-15,3,12,m],[x+1,y-14,1,10,shade(m,1.4)]];
+ if(k==='Hacha')return[[x,y-16,2,19,w],[x+2,y-16,4,7,m],[x+5,y-17,1,9,shade(m,1.3)]];
+ return[[x,y-24,2,27,w],[x-1,y-28,4,4,m],[x,y-30,2,2,shade(m,1.3)],[x-1,y-21,4,1,'#c33']]}
+function helmRects(it,top){const k=kind(it),m=metal(it.r);
+ if(k==='Gorro')return[[-7,top,14,4,m],[-4,top-3,8,3,m],[-1,top-5,2,2,'#f3e6cf'],[-7,top+3,14,1,shade(m,.7)]];
+ if(k==='Casco')return[[-7,top-1,14,5,m],[-7,top+4,2,4,m],[5,top+4,2,4,m],[-1,top+4,2,4,shade(m,.8)],[-5,top-1,10,1,shade(m,1.35)],[-1,top-3,2,2,'#d8a040']];
+ return[[-7,top-1,14,4,m],[-8,top+3,2,8,m],[6,top+3,2,8,m],[-2,top-3,4,2,shade(m,.8)]]}
+function hero(c,s,eq,t,flashOff){const f=!flashOff&&s.hit>0,skin=s.sick?'#a8c890':'#f0b07a',col=s.col,L=[];
+ const arm=eq&&eq.cuerpo,body=arm?metal(arm.r):col;
+ L.push([-5,-9,4,9,'#4a3020'],[1,-9,4,9,'#4a3020'],[-6,-3,5,3,'#2a1a0c'],[1,-3,5,3,'#2a1a0c']);
+ L.push([-7,-21,14,13,body]);
+ if(arm){L.push([-5,-19,10,7,shade(body,1.25)],[-1,-21,2,13,shade(body,.75)],[-7,-10,14,2,'#6a3a14'],[-1,-10,2,2,'#e8b040'])}else L.push([-7,-10,14,2,'#5a3a1a']);
+ L.push([-10,-22,5,5,arm?shade(body,.85):shade(col,.8)],[5,-22,5,5,arm?shade(body,.85):shade(col,.8)]);
+ if(arm)L.push([-10,-22,5,1,shade(body,1.4)],[5,-22,5,1,shade(body,1.4)]);
+ L.push([-10,-17,3,6,shade(col,.8)],[7,-17,3,6,shade(col,.8)],[-11,-12,4,4,skin],[7,-12,4,4,skin]);
+ L.push([-7,-34,14,13,skin],[-4,-28,2,2,'#1a0e06'],[2,-28,2,2,'#1a0e06'],[-2,-25,4,1,shade(skin,.7)]);
+ const hair=s.role==='fire'?'#ddd':s.role==='kid'?'#e0a030':'#5a3014';L.push([-7,-35,14,4,hair],[-7,-31,2,4,hair],[5,-31,2,4,hair]);
+ if(s.role==='medic')L.push([-1,-19,2,8,'#e22'],[-4,-16,8,2,'#e22']);
+ if(s.role==='scout')L.push([-8,-37,16,4,'#2f6a3a'],[-8,-33,2,8,'#2f6a3a'],[6,-33,2,8,'#2f6a3a']);
+ if(eq&&eq.cabeza)L.push(...helmRects(eq.cabeza,-36));
+ if(eq&&eq.linterna)L.push([-11,-8,4,5,'#3a2410'],[-10,-7,2,3,shade(RCOL[eq.linterna.r],1.5)],[-11,-9,4,1,'#d8a040']);
+ if(eq&&eq.arma)L.push(...weaponRects(eq.arma,8,-11));
+ if(eq&&eq.linterna){const g=c.createRadialGradient(-9,-5,1,-9,-5,14+eq.linterna.r*3),lc=RCOL[eq.linterna.r];g.addColorStop(0,lc+'aa');g.addColorStop(1,lc+'00');c.fillStyle=g;c.fillRect(-40,-40,60,60)}
+ paint(c,L,f)}
+function dogR(c){paint(c,[[-7,-8,14,6,'#a06a3a'],[5,-13,7,7,'#a06a3a'],[10,-10,3,2,'#2a1a0c'],[8,-11,1,1,'#000'],[6,-14,2,2,'#7a4a22'],[-6,-2,2,3,'#7a4a22'],[4,-2,2,3,'#7a4a22'],[-11,-10,4,2,'#a06a3a']])}
+function iconRects(it){const k=kind(it),m=metal(it.r);
+ if(it.sl==='arma'){const L=weaponRects(it,0,0);return L}
+ if(it.sl==='cabeza')return helmRects(it,-4);
+ if(it.sl==='cuerpo')return[[-6,-6,12,11,m],[-4,-4,8,5,shade(m,1.25)],[-1,-6,2,11,shade(m,.75)],[-8,-7,4,4,shade(m,.85)],[4,-7,4,4,shade(m,.85)],[-6,3,12,2,'#6a3a14']];
+ const lc=RCOL[it.r];return[[-2,-8,4,2,'#d8a040'],[-4,-6,8,10,'#3a2410'],[-2,-4,4,6,shade(lc,1.5)],[-5,4,10,2,'#d8a040']]}
+function drawIcon(cv,it){const c=cv.getContext('2d');c.clearRect(0,0,20,20);if(!it)return;c.save();
+ if(it.sl==='arma'){c.translate(10,10);c.rotate(Math.PI/4);c.translate(-1,kind(it)==='Lanza'?12:8);paint(c,iconRects(it))}else{c.translate(10,10);paint(c,iconRects(it))}c.restore()}
+function drawDoll(){const cv=$('doll');if(!cv)return;const c=cv.getContext('2d');c.clearRect(0,0,cv.width,cv.height);
+ c.fillStyle='rgba(255,170,60,.12)';c.beginPath();c.ellipse(28,50,22,4,0,0,7);c.fill();
+ c.save();c.translate(28,50);hero(c,P(),S.eq,0,true);c.restore();if(S.dog){c.save();c.translate(58,50);dogR(c);c.restore()}}
 function bar(x,y,f,c){ctx.fillStyle='#000';ctx.fillRect(x-10,y,20,3);ctx.fillStyle=c;ctx.fillRect(x-10,y,20*Math.max(0,f),3)}
 function zombie(z,t){const y=z.y+Math.sin(t*4+z.x)*1.5;ctx.save();ctx.translate(z.x,y);ctx.fillStyle=z.hit>0?'#fff':'#4a6a3a';ctx.fillRect(-6,-18,12,12);ctx.fillRect(-5,-6,4,6);ctx.fillRect(1,-6,4,6);
  ctx.fillRect(6,-17+Math.sin(t*5)*2,8,3);ctx.fillStyle=z.hit>0?'#fff':'#7a9a5a';ctx.beginPath();ctx.arc(0,-23,6,0,7);ctx.fill();ctx.fillStyle='#f22';ctx.fillRect(-3,-25,2,2);ctx.fillRect(1,-25,2,2);ctx.restore();bar(z.x,y-34,z.hp/z.max,'#d33')}
 function dog(d,t){ctx.save();ctx.translate(d.x,d.y);ctx.fillStyle='#a06a3a';ctx.fillRect(-7,-8,14,6);ctx.fillRect(5,-12,6,6);ctx.fillRect(-6,-2,2,3);ctx.fillRect(4,-2,2,3);ctx.fillRect(-10,-9+Math.sin(t*12)*2,4,2);ctx.restore()}
-function drawFog(t){fx.globalCompositeOperation='source-over';fx.clearRect(0,0,W,H);fx.fillStyle='rgba(0,0,0,.93)';fx.fillRect(0,0,W,H);fx.globalCompositeOperation='destination-out';
+function drawFog(t){fx.globalCompositeOperation='source-over';fx.clearRect(0,0,W,H);fx.fillStyle='rgba(0,0,0,.93)';fx.fillRect(0,0,W,462);fx.fillStyle='rgba(0,0,0,'+Math.max(.35,.62-S.fire*.04)+')';fx.fillRect(0,462,W,H-462);fx.globalCompositeOperation='destination-out';
  const r=lightR()*(1+Math.sin(t*3)*.02);const g=fx.createRadialGradient(180,400,r*.35,180,400,r);g.addColorStop(0,'rgba(0,0,0,1)');g.addColorStop(1,'rgba(0,0,0,0)');fx.fillStyle=g;fx.fillRect(0,0,W,H);
  const g2=fx.createRadialGradient(180,50,5,180,50,70);g2.addColorStop(0,'rgba(0,0,0,.9)');g2.addColorStop(1,'rgba(0,0,0,0)');fx.fillStyle=g2;fx.fillRect(0,0,W,160);
  const g3=fx.createRadialGradient(70,300,5,70,300,60);g3.addColorStop(0,'rgba(0,0,0,.8)');g3.addColorStop(1,'rgba(0,0,0,0)');fx.fillStyle=g3;fx.fillRect(0,200,160,200);
- fx.fillRect(0,0,0,0);ctx.drawImage(fog,0,0)}
+ fx.save();fx.translate(180,520);fx.scale(1,.42);const lr=70+S.fire*35,g4=fx.createRadialGradient(0,0,lr*.3,0,0,lr);g4.addColorStop(0,'rgba(0,0,0,.95)');g4.addColorStop(1,'rgba(0,0,0,0)');fx.fillStyle=g4;fx.fillRect(-W,-lr,W*2,lr*2);fx.restore();
+ fx.globalCompositeOperation='source-over';ctx.drawImage(fog,0,0)}
 function draw(t){bg();buildings();fire(t);lake(t);
  const all=S.surv.filter(s=>!s.out).map(s=>({o:s,f:person})).concat(Z.map(z=>({o:z,f:zombie})));if(S.dog)all.push({o:S.dog,f:dog});all.sort((a,b)=>a.o.y-b.o.y).forEach(e=>e.f(e.o,t));
  // reflection of fire in lake

diff --git a/style.css b/style.css
@@ -15,7 +15,7 @@ html,body{margin:0;height:100%;background:#000;overflow:hidden;font-family:-appl
 #bar button:active,.btn:active{transform:scale(.95);background:#6a3c1a}
 .hide{display:none!important}
 #modal{position:absolute;inset:0;background:#000a;display:flex;align-items:center;justify-content:center;padding:14px}
-#card{width:100%;max-height:85%;overflow:auto;background:#1c130d;border:2px solid #8a5a2a;border-radius:16px;padding:12px;font-size:13px}
+#card{width:100%;max-height:88%;overflow:auto;-webkit-overflow-scrolling:touch;background:repeating-linear-gradient(90deg,#2a1c12 0 22px,#24180f 22px 24px),#24180f;border:4px solid #6a6258;outline:2px solid #c89a3a;outline-offset:-7px;box-shadow:inset 0 0 0 5px #3a2a1a,0 0 0 2px #1a0e06,0 6px 20px #000;border-radius:6px;padding:14px;font-size:13px}
 #card h3{margin:0 0 8px;color:#ffb35a}
 .btn{height:auto;min-height:42px;font-size:14px;margin:4px 0;width:100%;padding:6px}
 .btn:disabled{opacity:.4}
@@ -23,3 +23,35 @@ html,body{margin:0;height:100%;background:#000;overflow:hidden;font-family:-appl
 .it{padding:6px;border-radius:8px;margin:3px 0;background:#2a1c12;display:flex;justify-content:space-between;align-items:center}
 .it button{border-radius:8px;border:1px solid #8a5a2a;background:#4a2c16;color:#ffe2b0;padding:6px 10px}
 .r0{color:#bbb}.r1{color:#5f5}.r2{color:#59f}.r3{color:#c6f}.r4{color:#fa3}
+#card h3{font-weight:800;text-shadow:0 2px 0 #000;letter-spacing:.5px;color:#ffc24a}
+.btn.gold{border-color:#c89a3a;background:linear-gradient(#7a4a16,#4a2a0c);color:#ffe08a}
+.btn.on{border-color:#ffc24a;background:#5a3a14}
+.btn small{display:block;font-size:10px;opacity:.75}
+.lock{opacity:.8;background:#1a110b;border:1px dashed #6a5040;padding:6px;border-radius:4px}
+.gold{color:#ffc24a}
+.next{background:#1a110b;border:2px solid #c89a3a;border-radius:4px;padding:8px;margin:6px 0}
+.lvbar{display:flex;gap:3px;margin:4px 0}.lvbar i{flex:1;text-align:center;font-style:normal;font-size:10px;background:#1a110b;border:1px solid #5a4030;padding:2px 0}.lvbar i.on{background:#c8781a;color:#fff;border-color:#ffc24a}
+.nm{text-align:center;font-size:15px;color:#ffe2b0;margin-bottom:4px}.nm b{color:#ffc24a}
+.xb{position:relative;height:13px;background:#120a05;border:1px solid #6a5040;margin:3px 0}.xb i{position:absolute;left:0;top:0;bottom:0;background:linear-gradient(#b070ff,#6a30c0)}.xb.hp i{background:linear-gradient(#5fd040,#2a8a20)}.xb span{position:relative;font-size:10px;display:block;text-align:center;line-height:13px;text-shadow:0 1px 0 #000}
+.tabs{display:flex;gap:4px;margin:6px 0}.tabs button{flex:1;padding:7px;background:#2a1c12;color:#ffe2b0;border:2px solid #5a4030;border-radius:4px 4px 0 0;font-weight:700}.tabs button.on{border-color:#c89a3a;background:#4a2c16}
+.doll{display:flex;justify-content:space-between;align-items:center;background:radial-gradient(#3a2414,#140c06);border:2px solid #5a4a3a;padding:6px;border-radius:4px}
+.doll .col{display:flex;flex-direction:column;gap:5px}
+.doll .mid{flex:1;display:flex;justify-content:center}
+#doll{width:180px;height:140px;image-rendering:pixelated;image-rendering:crisp-edges}
+.slot{width:46px;height:46px;background:#120a05;border:3px solid #5a5048;box-shadow:inset 0 0 0 1px #000;position:relative;display:flex;align-items:center;justify-content:center;border-radius:3px}
+.slot small{position:absolute;bottom:-1px;left:0;right:0;font-size:7px;text-align:center;opacity:.7}
+.slot.empty{opacity:.45}
+.ic{width:36px;height:36px;image-rendering:pixelated;image-rendering:crisp-edges;pointer-events:none}
+.rb0{border-color:#b8b0a2}.rb1{border-color:#4fd04a}.rb2{border-color:#3f8cff}.rb3{border-color:#b45cff}.rb4{border-color:#ff9a1f;box-shadow:0 0 6px #ff9a1f}
+.r0{color:#b8b0a2}.r1{color:#4fd04a}.r2{color:#3f8cff}.r3{color:#b45cff}.r4{color:#ff9a1f}
+.stats{display:grid;grid-template-columns:1fr 1fr;gap:4px;margin:6px 0}.st{display:flex;align-items:center;gap:4px;background:#1a110b;border:1px solid #5a4030;padding:4px 6px}.st span{flex:1}.st b{color:#ffe2b0}.st em{color:#4fd04a;font-size:11px;font-style:normal}
+.st button,.det button{background:#7a4a16;border:2px solid #c89a3a;color:#ffe08a;border-radius:4px;padding:2px 8px;font-weight:800}
+.pts{grid-column:1/-1;color:#ffc24a;font-weight:700}
+.det{background:#120a05;border:1px solid #5a4030;padding:6px;min-height:34px}
+.grid{display:grid;grid-template-columns:repeat(auto-fill,46px);gap:6px}
+.res{font-size:11px;opacity:.85}
+.tree{display:flex;flex-direction:column;align-items:center}.tier{display:flex;gap:18px;justify-content:center;width:100%}
+.node{flex:1;max-width:140px;background:#1a110b;border:3px solid #4a4038;padding:6px;text-align:center;border-radius:6px;opacity:.55}.node b{display:block;font-size:12px}.node small{font-size:10px}
+.node.can{opacity:1;border-color:#c89a3a;box-shadow:0 0 8px #c89a3a88}.node.on{opacity:1;border-color:#4fd04a;background:#1e3a14}
+.link{width:60%;height:16px;border-left:3px solid #4a4038;border-right:3px solid #4a4038}.link.on{border-color:#4fd04a}
+#bar button{border:3px solid #6a6258;outline:1px solid #c89a3a;outline-offset:-5px;border-radius:6px;background:linear-gradient(#5a3418,#2a180c)}
